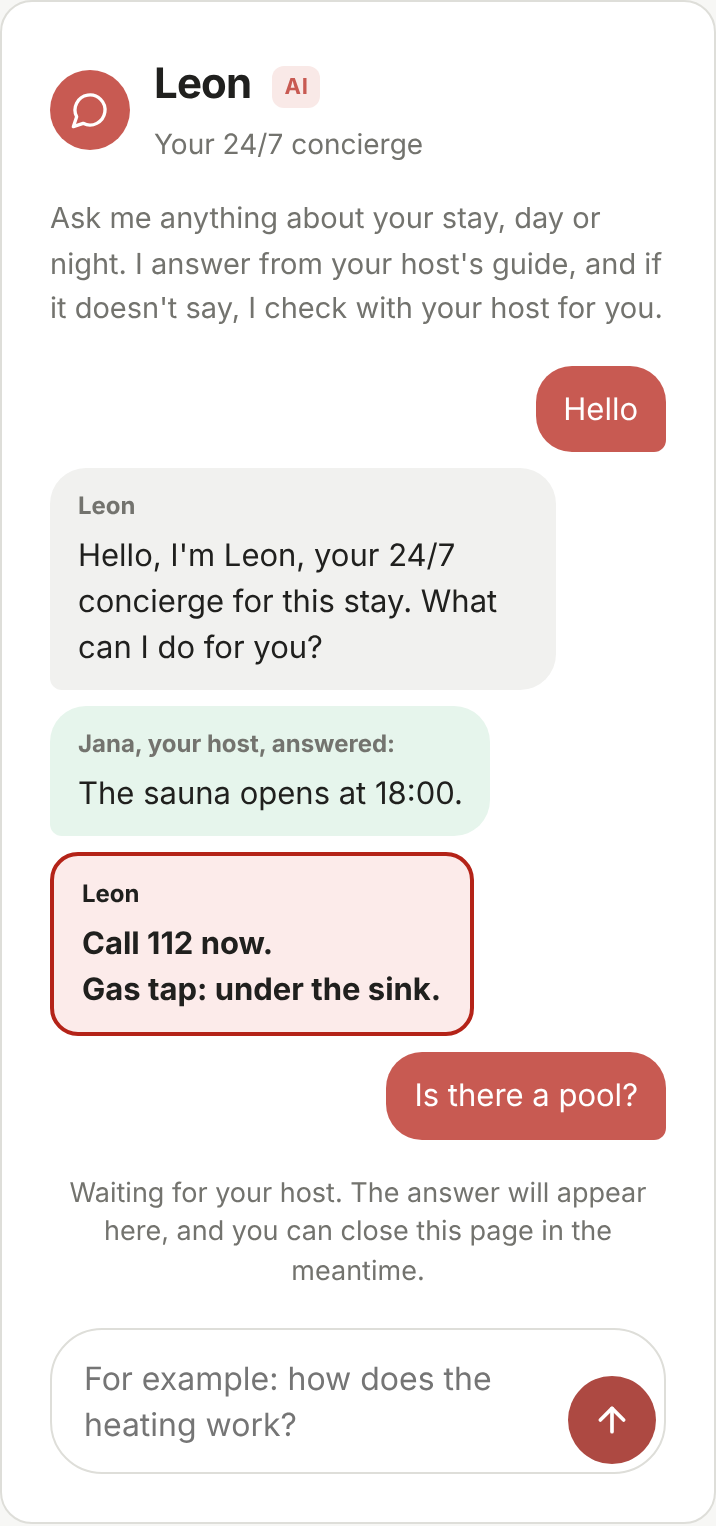
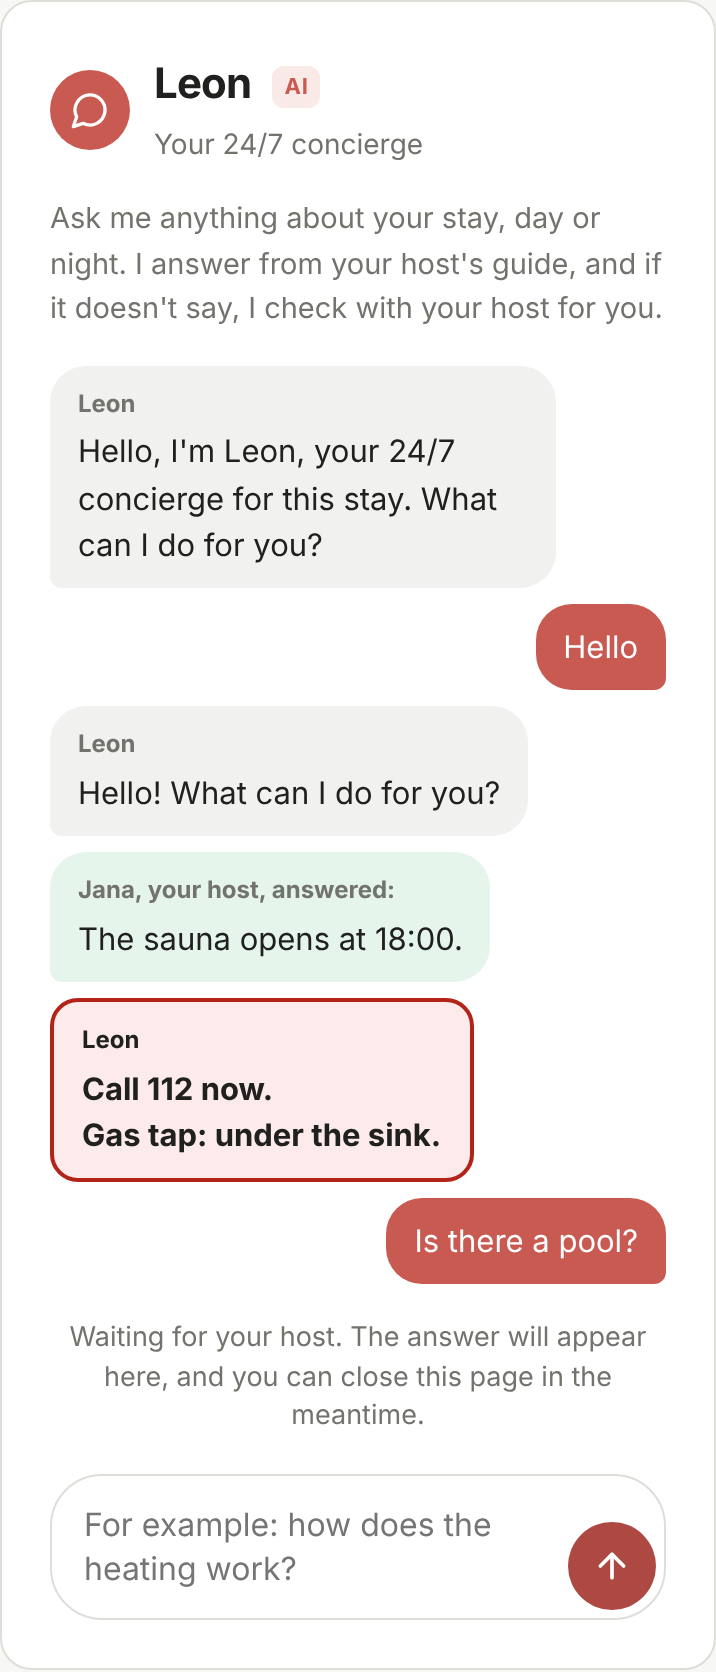
0389: Leon greets the guest first
Leon's chat log always opens with a fixed welcome bubble drawn by the
page script (never stored, never sent to the model, never counted).
leon_hi is now a short "Hello! What can I do for you?" so Leon does not
introduce himself twice. Adds leon_welcome in all six languages, the
test_leon_greets_first browser test, and regenerated 0387 screenshots.

Claude-Session: https://claude.ai/code/session_01Lvzax2VbKkYR4rb7JYLc3K

diff --git a/App/app/templates/guest/_leon.html b/App/app/templates/guest/_leon.html
@@ -12,7 +12,8 @@
   data-text-sending="{{ t('leon_sending') }}"
   data-text-error="{{ t('leon_error') }}"
   data-text-reload="{{ t('leon_error_reload') }}"
-  data-text-queued="{{ t('leon_queued') }}">
+  data-text-queued="{{ t('leon_queued') }}"
+  data-text-welcome="{{ t('leon_welcome') }}">
   <div class="g-leon-head">
     <span class="g-leon-avatar" aria-hidden="true"><svg viewBox="0 0 24 24" width="20" height="20" fill="none" stroke="currentColor" stroke-width="2" stroke-linecap="round" stroke-linejoin="round" aria-hidden="true" focusable="false"><path d="M7.9 20A9 9 0 1 0 4 16.1L2 22Z"/></svg></span>
     <div class="g-leon-head-text"><h2 id="leon-title">{{ t('leon_name') }} <span class="g-leon-tag">{{ t('leon_tag') }}</span></h2><p class="g-leon-role">{{ t('leon_role') }}</p></div>

diff --git a/App/app/static/guest-leon.js b/App/app/static/guest-leon.js
@@ -83,6 +83,13 @@
     return item;
   }
 
+  // 0389: Leon speaks first. A fixed welcome drawn by the page: never stored, never sent, never counted.
+  function welcome() {
+    var item = bubble("leon", "", text("text-welcome"));
+    item.setAttribute("data-leon-msg", "welcome");
+    return item;
+  }
+
   function setWaiting(on) {
     waiting.hidden = !on;
     if (on && !timer && polls < POLL_MAX) {
@@ -104,6 +111,7 @@
       return;
     }
     while (log.firstChild) log.removeChild(log.firstChild);
+    welcome();
     (data.messages || []).forEach(function (m) {
       bubble(m.role, m.kind, m.text);
     });
@@ -280,5 +288,6 @@
   form.hidden = false;
   if (jump) jump.hidden = false;
   updateCount();
+  welcome();
   history().catch(function () {});
 })();

diff --git a/App/app/templates/guest/base.html b/App/app/templates/guest/base.html
@@ -72,6 +72,6 @@
 {% if load_signature_js %}<script src="/static/signature.js?v=20261021-0196"></script>{% endif %}
 <script src="/static/guest-enhancements.js?v=20261003a"></script>
 <script src="/static/csrf.js?v=20260915a"></script>
-{% if leon_url %}<script src="/static/guest-leon.js?v=20261025-0387"></script>{% endif %}
+{% if leon_url %}<script src="/static/guest-leon.js?v=20261025-0389"></script>{% endif %}
 </body>
 </html>

diff --git a/App/app/i18n.py b/App/app/i18n.py
@@ -672,7 +672,8 @@ STRINGS: Dict[str, Dict[str, str]] = {
         "leon_name": "Leon",
         "leon_tag": "AI",
         "leon_role": "Your 24/7 concierge",
-        "leon_hi": "Hello, I'm Leon, your 24/7 concierge for this stay. What can I do for you?",
+        "leon_welcome": "Hello, I'm Leon, your 24/7 concierge for this stay. What can I do for you?",
+        "leon_hi": "Hello! What can I do for you?",
         "leon_thanks": "You're welcome. I'm here if you need anything else.",
         "leon_asked_host": "I don't want to guess about this, so I've asked %(host)s, your host. I'll show the answer here as soon as it comes.",
         "leon_asked_host_plain": "I don't want to guess about this, so I've asked your host. I'll show the answer here as soon as it comes.",
@@ -1306,7 +1307,8 @@ STRINGS: Dict[str, Dict[str, str]] = {
         "leon_name": "Leon",
         "leon_tag": "AI",
         "leon_role": "Váš concierge nonstop",
-        "leon_hi": "Dobrý den, jsem Leon, váš concierge nonstop po celý pobyt. Co pro vás můžu udělat?",
+        "leon_welcome": "Dobrý den, jsem Leon, váš concierge nonstop po celý pobyt. Co pro vás můžu udělat?",
+        "leon_hi": "Dobrý den! Co pro vás můžu udělat?",
         "leon_thanks": "Rádo se stalo. Kdybyste ještě něco potřebovali, jsem tu.",
         "leon_asked_host": "Nechci v tomhle hádat, proto jsem se zeptal vašeho hostitele, %(host)s. Odpověď vám tady ukážu, jakmile přijde.",
         "leon_asked_host_plain": "Nechci v tomhle hádat, proto jsem se zeptal vašeho hostitele. Odpověď vám tady ukážu, jakmile přijde.",
@@ -1723,7 +1725,8 @@ STRINGS: Dict[str, Dict[str, str]] = {
         "leon_name": "Leon",
         "leon_tag": "KI",
         "leon_role": "Ihr Concierge rund um die Uhr",
-        "leon_hi": "Hallo, ich bin Leon, Ihr Concierge rund um die Uhr für diesen Aufenthalt. Was kann ich für Sie tun?",
+        "leon_welcome": "Hallo, ich bin Leon, Ihr Concierge rund um die Uhr für diesen Aufenthalt. Was kann ich für Sie tun?",
+        "leon_hi": "Hallo! Was kann ich für Sie tun?",
         "leon_thanks": "Gern geschehen. Ich bin da, wenn Sie noch etwas brauchen.",
         "leon_asked_host": "Ich möchte hier nicht raten, deshalb habe ich %(host)s, Ihren Gastgeber, gefragt. Die Antwort zeige ich Ihnen hier, sobald sie kommt.",
         "leon_asked_host_plain": "Ich möchte hier nicht raten, deshalb habe ich Ihren Gastgeber gefragt. Die Antwort zeige ich Ihnen hier, sobald sie kommt.",
@@ -2140,7 +2143,8 @@ STRINGS: Dict[str, Dict[str, str]] = {
         "leon_name": "Leon",
         "leon_tag": "IA",
         "leon_role": "Su conserje 24/7",
-        "leon_hi": "Hola, soy Leon, su conserje 24/7 durante esta estancia. ¿Qué puedo hacer por usted?",
+        "leon_welcome": "Hola, soy Leon, su conserje 24/7 durante esta estancia. ¿Qué puedo hacer por usted?",
+        "leon_hi": "¡Hola! ¿Qué puedo hacer por usted?",
         "leon_thanks": "De nada. Aquí estoy si necesita algo más.",
         "leon_asked_host": "No quiero adivinar en esto, así que se lo he preguntado a %(host)s, su anfitrión. Le mostraré la respuesta aquí en cuanto llegue.",
         "leon_asked_host_plain": "No quiero adivinar en esto, así que se lo he preguntado a su anfitrión. Le mostraré la respuesta aquí en cuanto llegue.",
@@ -2557,7 +2561,8 @@ STRINGS: Dict[str, Dict[str, str]] = {
         "leon_name": "Leon",
         "leon_tag": "IA",
         "leon_role": "Votre concierge 24h/24",
-        "leon_hi": "Bonjour, je suis Leon, votre concierge 24h/24 pendant ce séjour. Que puis-je faire pour vous ?",
+        "leon_welcome": "Bonjour, je suis Leon, votre concierge 24h/24 pendant ce séjour. Que puis-je faire pour vous ?",
+        "leon_hi": "Bonjour ! Que puis-je faire pour vous ?",
         "leon_thanks": "Je vous en prie. Je suis là si vous avez besoin d'autre chose.",
         "leon_asked_host": "Je ne veux pas deviner, alors j'ai demandé à %(host)s, votre hôte. Je vous montrerai la réponse ici dès qu'elle arrivera.",
         "leon_asked_host_plain": "Je ne veux pas deviner, alors j'ai demandé à votre hôte. Je vous montrerai la réponse ici dès qu'elle arrivera.",

diff --git a/App/tests/test_guest_leon_browser.py b/App/tests/test_guest_leon_browser.py
@@ -236,3 +236,37 @@ def test_without_javascript_the_guide_shows_one_line_and_no_form(live_server, br
         context.close()
     finally:
         _cleanup()
+
+
+def test_leon_greets_first(live_server, browser, monkeypatch):  # noqa: F811
+    monkeypatch.setattr(config, "AI_FEATURES", frozenset({"leon"}))
+    monkeypatch.setattr(config, "ANTHROPIC_API_KEY", "test-key")
+    apartment_id, token = _seed()
+    docs_shots = Path(__file__).resolve().parents[2] / "docs" / "tasks" / "screenshots-0387"
+    try:
+        context = browser.new_context(viewport={"width": 390, "height": 844}, device_scale_factor=2)
+        page = context.new_page()
+        page.goto(f"{live_server}/g/{token}?lang=en")
+        welcome = page.locator("[data-leon-msg=welcome]")
+        assert welcome.count() == 1 and welcome.is_visible()
+        assert "your 24/7 concierge" in welcome.inner_text()
+        assert page.locator("[data-leon-msg=leon]").count() == 0
+        assert page.locator("[data-leon-log] > :first-child").get_attribute("data-leon-msg") == "welcome"
+        SHOTS.mkdir(parents=True, exist_ok=True)
+        docs_shots.mkdir(parents=True, exist_ok=True)
+        page.locator("#leon").screenshot(path=str(SHOTS / "leon-welcome-390.png"))
+        shutil.copy(SHOTS / "leon-welcome-390.png", docs_shots / "leon-welcome-390.png")
+
+        page.fill("[data-leon-input]", "Hello")
+        page.click("[data-leon-send]")
+        page.wait_for_selector("[data-leon-msg=leon]")
+        assert "What can I do for you" in page.locator("[data-leon-msg=leon]").inner_text()
+        assert welcome.count() == 1
+
+        page.reload()
+        page.wait_for_selector("[data-leon-msg=leon]")
+        assert page.locator("[data-leon-msg=welcome]").count() == 1
+        assert page.locator("[data-leon-log] > :first-child").get_attribute("data-leon-msg") == "welcome"
+        context.close()
+    finally:
+        _cleanup()

diff --git a/App/app/guest_uk_i18n.py b/App/app/guest_uk_i18n.py
@@ -442,7 +442,8 @@ STRINGS: Dict[str, str] = {
     "leon_name": "Leon",
     "leon_tag": "ШІ",
     "leon_role": "Ваш консьєрж 24/7",
-    "leon_hi": "Вітаю, я Leon, ваш консьєрж 24/7 на час проживання. Чим можу допомогти?",
+    "leon_welcome": "Вітаю, я Leon, ваш консьєрж 24/7 на час проживання. Чим можу допомогти?",
+    "leon_hi": "Вітаю! Чим можу допомогти?",
     "leon_thanks": "Будь ласка. Я поруч, якщо потрібно ще щось.",
     "leon_asked_host": "Я не хочу вгадувати, тому запитав %(host)s, вашого господаря. Покажу відповідь тут, щойно вона надійде.",
     "leon_asked_host_plain": "Я не хочу вгадувати, тому запитав вашого господаря. Покажу відповідь тут, щойно вона надійде.",

diff --git a/docs/tasks/0389-leon-greets-first.md b/docs/tasks/0389-leon-greets-first.md
@@ -1,0 +1,91 @@
+# 0389: Leon greets the guest first
+
+Status: todo
+Depends on: 0387, 0388 (same branch, not merged) | Branch: claude/0387-leon-chat-look (already checked out; commit here)
+Executor: Haiku 5.5 | Fits one session: 25 tool calls, 50k tokens
+
+## 1. Objective
+
+Owner (Josef, 2026-10-25): Havel greets first, Leon should too. Today the Leon card shows an empty chat until the guest writes. After this brief, the chat log always starts with one Leon bubble holding a fixed welcome (`leon_welcome`). It is rendered by the page script, with no AI call, never stored, never counted against caps, and not sent to the model. Because the welcome now introduces Leon, his reply to a bare "hi" (`leon_hi`) becomes a short "Hello! What can I do for you?" so he does not introduce himself twice.
+
+## 2. Context
+
+- `App/app/static/guest-leon.js`: `bubble(role, kind, body)` appends `div.g-leon-msg.g-leon-msg--<role>` with `data-leon-msg=<role>` to `log`. `render(data)` empties `log`, adds one bubble per `data.messages`, appends queued items, then sets `log.hidden = !log.firstChild;`. `history()` runs on load (~283) and calls `render`. `text(name)` reads `data-<name>` from the root.
+- `App/app/templates/guest/_leon.html`: the root `<section ... data-leon ...>` carries `data-text-*` attributes. The log is `<div class="g-leon-log" ... data-leon-log hidden></div>`.
+- Copy lives in `App/app/i18n.py` (en, cs, de, es, fr dicts) and `App/app/guest_uk_i18n.py` (uk). `leon_hi` is used by `leon.py` (`_fixed(lang, "leon_hi" ...)`) as the local small-talk reply.
+- `App/tests/test_guest_leon_browser.py` waits for `[data-leon-msg=leon]` after sending. The welcome must NOT carry `data-leon-msg="leon"`, or that wait passes too early.
+
+## 3. Files
+
+| Path | Action |
+|---|---|
+| App/app/i18n.py, App/app/guest_uk_i18n.py | new `leon_welcome`, new `leon_hi` values |
+| App/app/templates/guest/_leon.html | one data attribute |
+| App/app/static/guest-leon.js | welcome bubble in render |
+| App/app/templates/guest/base.html | bump guest-leon.js `?v=` to `20261025-0389` |
+| App/tests/static_versions.json | `--write` |
+| App/tests/test_guest_leon_browser.py, other tests asserting `leon_hi` text | update or add assertions |
+
+## 4. Steps
+
+1. **Copy.** Add `leon_welcome` right after `leon_hi` in each language, and change `leon_hi`:
+
+| lang | leon_welcome (new) | leon_hi (new value) |
+|---|---|---|
+| en | Hello, I'm Leon, your 24/7 concierge for this stay. What can I do for you? | Hello! What can I do for you? |
+| cs | Dobrý den, jsem Leon, váš concierge nonstop po celý pobyt. Co pro vás můžu udělat? | Dobrý den! Co pro vás můžu udělat? |
+| de | Hallo, ich bin Leon, Ihr Concierge rund um die Uhr für diesen Aufenthalt. Was kann ich für Sie tun? | Hallo! Was kann ich für Sie tun? |
+| es | Hola, soy Leon, su conserje 24/7 durante esta estancia. ¿Qué puedo hacer por usted? | ¡Hola! ¿Qué puedo hacer por usted? |
+| fr | Bonjour, je suis Leon, votre concierge 24h/24 pendant ce séjour. Que puis-je faire pour vous ? | Bonjour ! Que puis-je faire pour vous ? |
+| uk | Вітаю, я Leon, ваш консьєрж 24/7 на час проживання. Чим можу допомогти? | Вітаю! Чим можу допомогти? |
+
+2. **Template**: add `data-text-welcome="{{ t('leon_welcome') }}"` to the root `<section>`, next to `data-text-queued`.
+
+3. **JS** (`guest-leon.js`):
+   - Add a function after `bubble`:
+```js
+  // 0389: Leon speaks first. A fixed welcome drawn by the page: never stored, never sent, never counted.
+  function welcome() {
+    var item = bubble("leon", "", text("text-welcome"));
+    item.setAttribute("data-leon-msg", "welcome");
+    return item;
+  }
+```
+   - In `render(data)`, right after the `while (log.firstChild) ...` line, add `welcome();`.
+   - Also call `welcome();` once at start-up, just before the initial `history().catch(...)` call at the bottom (~283), so the bubble shows before the first fetch returns. `render` clears and redraws it, so it never appears twice. Check that nothing else empties the log without calling `render`. If something does, add `welcome();` after it.
+   - `log.hidden = !log.firstChild;` stays. The log is never empty now, so it shows.
+
+4. **Version key**: bump guest-leon.js in `templates/guest/base.html` to `?v=20261025-0389`, then run `tests/test_static_versions.py --write` from `App/`.
+
+5. **Tests**:
+   - grep `App/tests/` for the old `leon_hi` texts (`your 24/7 concierge for this stay`, `concierge nonstop po celý pobyt`, plus the uk/de/es/fr versions) and update any assertion that checks the small-talk reply to the new `leon_hi`.
+   - In `test_guest_leon_browser.py`, add `test_leon_greets_first` (seed and monkeypatch like `test_the_chat_works_and_lays_out_on_a_phone`, en, 390x844). Load the page and check: `[data-leon-msg=welcome]` has count 1 and is visible, its text contains "your 24/7 concierge", there is no `[data-leon-msg=leon]` yet, and the welcome is the first child of `[data-leon-log]`. Send "Is there parking?" with the fake AI reply the existing test uses, wait for `[data-leon-msg=leon]`, and check `[data-leon-msg=welcome]` still has count 1. Reload the page: welcome count is 1 and it is still the first child. Save `#leon` screenshots before sending: `leon-welcome-390.png` into `SHOTS` and into `docs/tasks/screenshots-0387/`.
+   - Run the existing chat test too. The leon screenshot `leon-chat-390.png` now also shows the welcome bubble on top.
+
+## 5. Do not touch
+
+Everything outside §3. No change to leon.py logic, routes, caps, stored history, or the prompt.
+
+## 6. Commands
+
+From `App/`:
+```
+.venv/bin/ruff check app tests tools --select E9,F63,F7,F82,F401,F841 2>&1 | tail -5
+UBYHOST_BROWSER_EXECUTABLE=/opt/pw-browsers/chromium UBYHOST_REQUIRE_BROWSER=1 UBYHOST_UBYPORT_ENV=mock UBYHOST_DEPLOYMENT=staging UBYHOST_ENABLE_SCHEDULER=0 .venv/bin/python -m pytest tests/test_guest_leon_browser.py tests/test_guest_leon_chat.py tests/test_leon.py tests/test_guest_guide_browser.py tests/test_static_versions.py -q --tb=short -rs 2>&1 | tail -30
+cd .. && git checkout -- $(git ls-files -m docs/tasks | grep -v -e screenshots-0387 -e 0389) 2>/dev/null; true
+```
+If a test fails, put its first assertion line in the report. Fix only inside §3.
+
+## 7. Acceptance
+
+- [ ] §6 passes, 0 skipped.
+- [ ] `docs/tasks/screenshots-0387/leon-welcome-390.png` shows the welcome bubble in an otherwise empty chat. You looked at it once.
+
+## 9. Report
+
+`docs/tasks/0389-report.md` (150 tokens), `Status: review`. ONE commit `0389: Leon greets the guest first`, including this brief and the screenshots, ending with:
+```
+Co-Authored-By: Claude Opus 5.5 (1M context) <noreply@anthropic.com>
+Claude-Session: https://claude.ai/code/session_01Lvzax2VbKkYR4rb7JYLc3K
+```
+Do not push.
